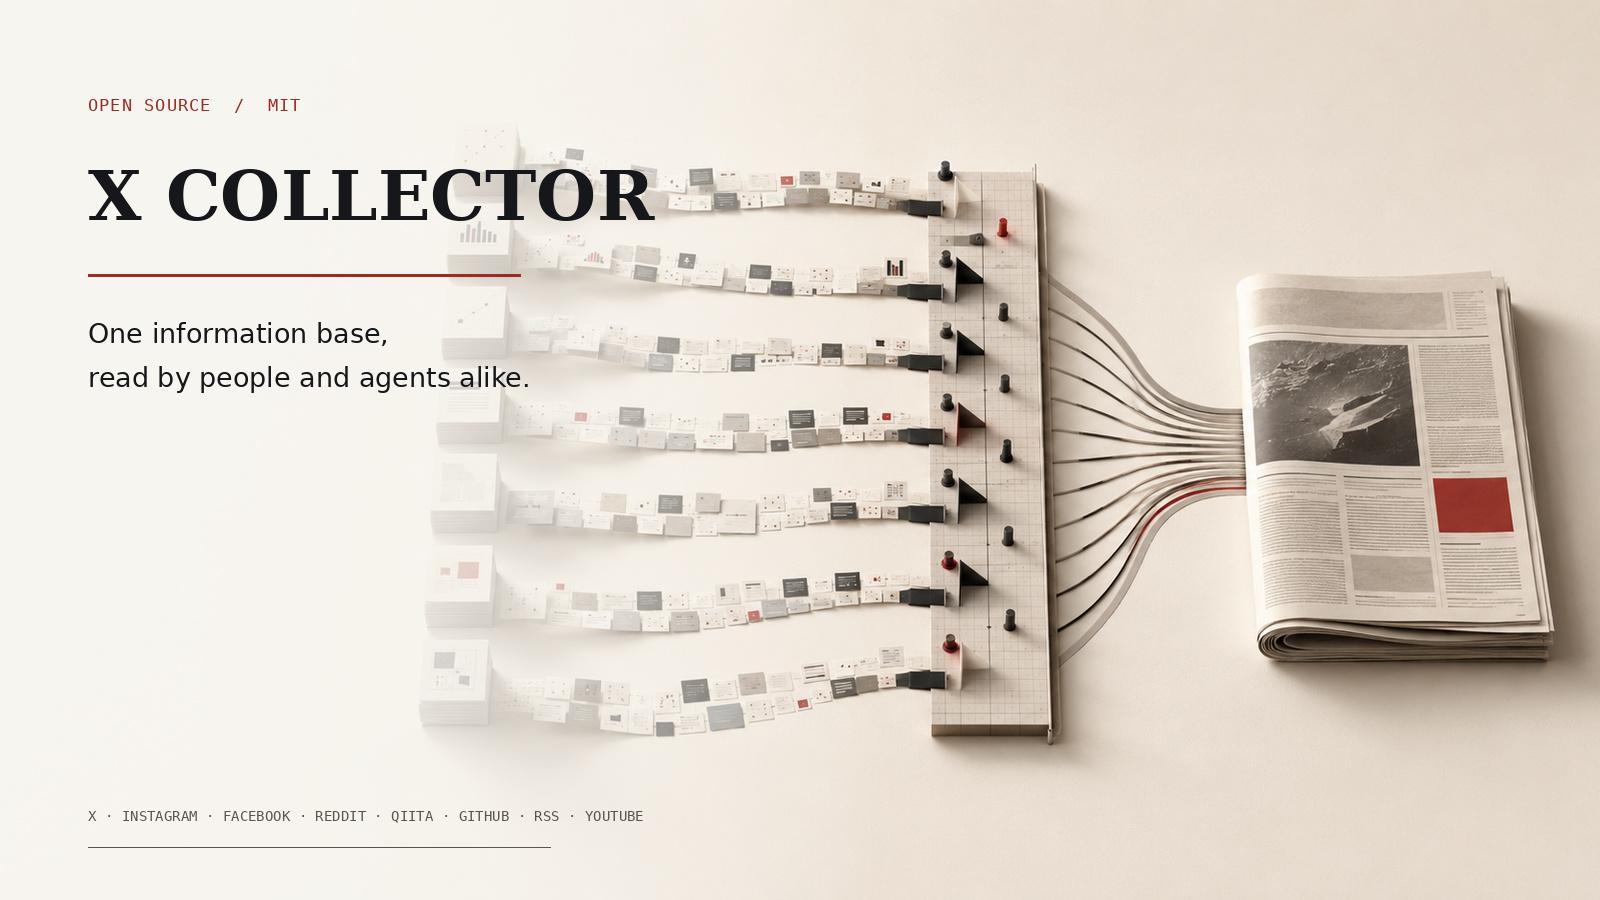
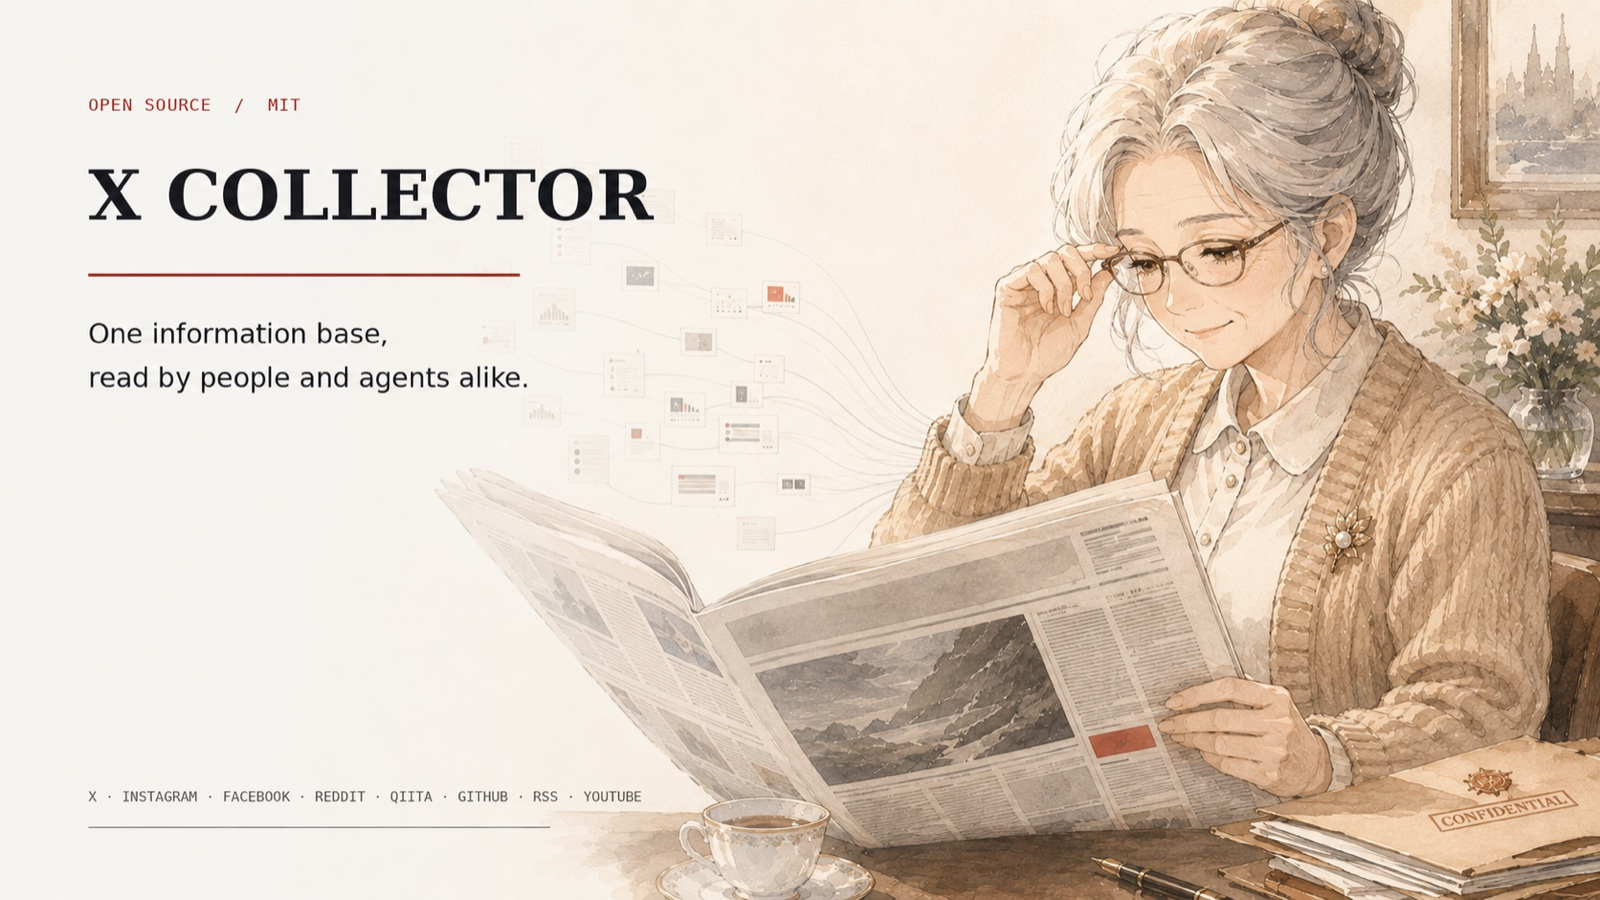
docs: swap hero to reader artwork (owner-provided); add 1200x630 OG image for social previews
- assets/hero.jpg: new owner-provided artwork, resized to 1600x900 JPEG
- assets/og.jpg: same artwork center-cropped to 1.91:1 (1200x630) for
  GitHub social preview / X (Twitter) card use
- README (en/ja/zh/th): alt text updated to describe the new artwork

diff --git a/README.th.md b/README.th.md
@@ -4,7 +4,7 @@
 
 [🇺🇸 English](README.md) ｜ [🇯🇵 日本語](README.ja.md) ｜ [🇨🇳 简体中文](README.zh.md) ｜ **🇹🇭 ไทย**
 
-![ภาพหลักของ X Collector: สายโพสต์ที่รวบรวมจาก 8 แพลตฟอร์มไหลผ่านบอร์ดคัดแยกและถูกเย็บรวมเป็นหนังสือพิมพ์ฉบับเดียว — "One information base, read by people and agents alike."](assets/hero.jpg)
+![ภาพหลักของ X Collector: สายโพสต์ที่รวบรวมมาถูกถักทอเป็นหนังสือพิมพ์ฉบับเดียว และมีผู้หญิงกำลังอ่านอยู่ — "One information base, read by people and agents alike."](assets/hero.jpg)
 
 <h4>ซอฟต์แวร์โอเพนซอร์สฟรี ที่คุณรันบนคอมพิวเตอร์หรือเซิร์ฟเวอร์ของคุณเอง —<br>เปลี่ยนข่าวสาร AI และเทคโนโลยีที่กระจัดกระจาย ให้กลายเป็นหนังสือพิมพ์วันละฉบับ และฟีดเดียวที่ค้นหาได้</h4>
 

diff --git a/README.ja.md b/README.ja.md
@@ -4,7 +4,7 @@
 
 [🇺🇸 English](README.md) ｜ **🇯🇵 日本語** ｜ [🇨🇳 简体中文](README.zh.md) ｜ [🇹🇭 ไทย](README.th.md)
 
-![X Collectorのヒーロー画像。8つのプラットフォームから集めた投稿の流れが仕分けボードを通り、1部の新聞に束ねられる。"One information base, read by people and agents alike."](assets/hero.jpg)
+![X Collectorのヒーロー画像。集めた投稿の流れが1部の新聞に織り込まれ、それを女性が読んでいる。"One information base, read by people and agents alike."](assets/hero.jpg)
 
 <h4>散らばるAI・テックの最新情報を、毎日1つの新聞と検索できるフィードにまとめる、<br>自分のパソコンやサーバーで動かす無料のオープンソースソフトウェアです。</h4>
 

diff --git a/README.md b/README.md
@@ -4,7 +4,7 @@
 
 **🇺🇸 English** ｜ [🇯🇵 日本語](README.ja.md) ｜ [🇨🇳 简体中文](README.zh.md) ｜ [🇹🇭 ไทย](README.th.md)
 
-![X Collector hero image: streams of collected posts from eight platforms flow through a sorting board and are bound into one printed newspaper — "One information base, read by people and agents alike."](assets/hero.jpg)
+![X Collector hero image: a woman reads a printed newspaper woven from streams of collected posts — "One information base, read by people and agents alike."](assets/hero.jpg)
 
 <h4>Free, open-source software you run on your own computer or server —<br>it turns scattered AI and tech updates into one daily newspaper and one searchable feed.</h4>
 

diff --git a/README.zh.md b/README.zh.md
@@ -4,7 +4,7 @@
 
 [🇺🇸 English](README.md) ｜ [🇯🇵 日本語](README.ja.md) ｜ **🇨🇳 简体中文** ｜ [🇹🇭 ไทย](README.th.md)
 
-![X Collector 主视觉：来自 8 个平台的帖子流经分拣板，汇订成一份报纸 —— "One information base, read by people and agents alike."](assets/hero.jpg)
+![X Collector 主视觉：收集的帖子流汇织成一份报纸，一位女士正在阅读 —— "One information base, read by people and agents alike."](assets/hero.jpg)
 
 <h4>一款免费开源的软件，运行在你自己的电脑或服务器上——<br>把散落各处的 AI 与科技资讯汇集成每天一份报纸和一个可搜索的信息流。</h4>
 
